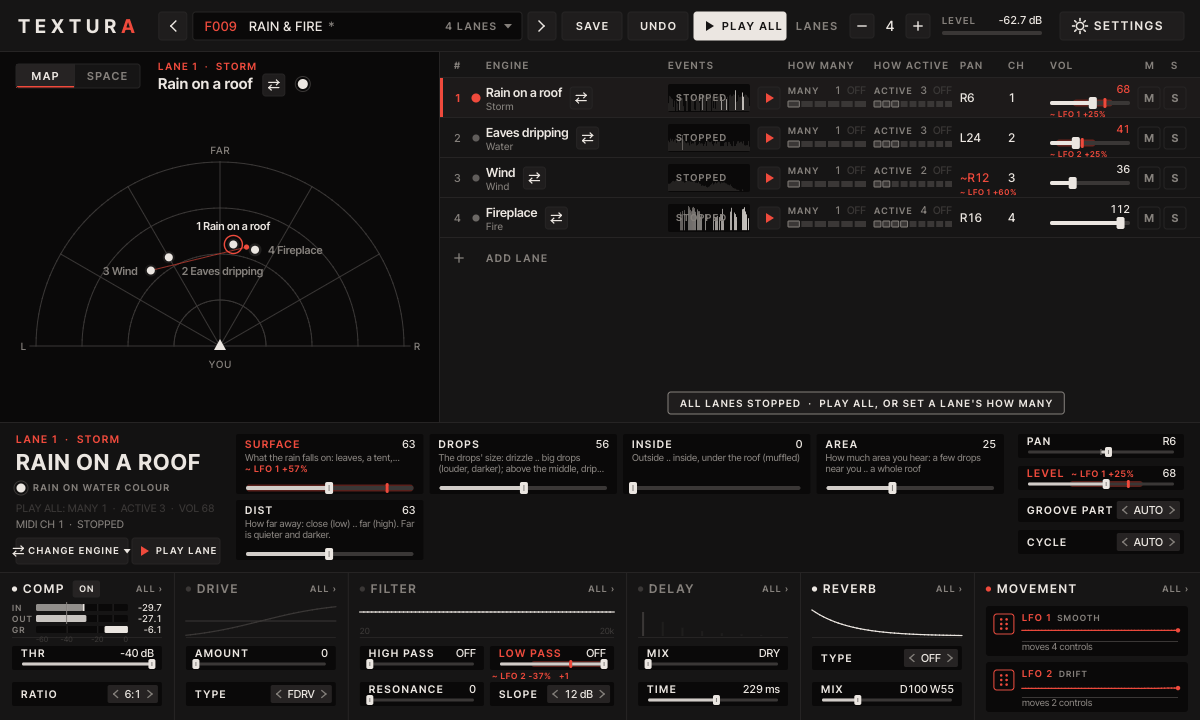
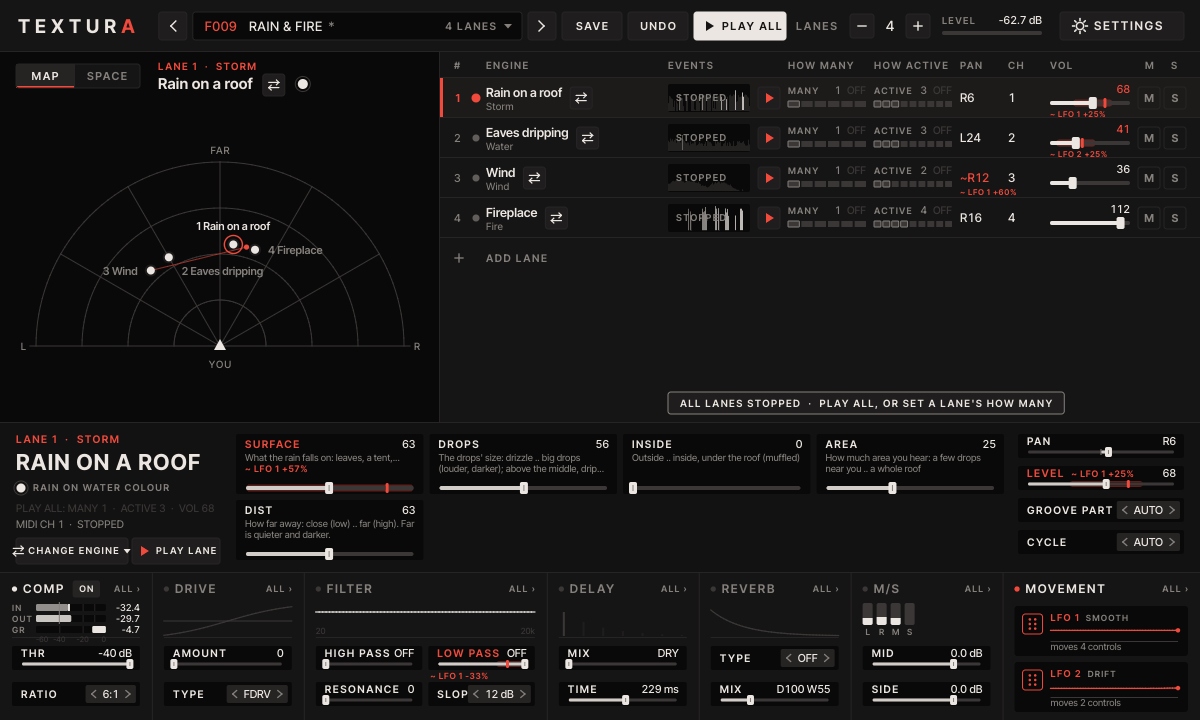
Plugin 0.3.0: release notes, manual pictures redone, the AU's Info.plist after every build
The manual's pictures show the current window (M/S in the strip); README's
window picture cache-bust bumped. A CMake re-configure could leave the
generic Info.plist in Textura.component, with no AudioComponents, so hosts
missed the Audio Unit: the wrapper's plist is now copied in after every build.

diff --git a/docs/releases/textura-plugin-v0.3.0.md b/docs/releases/textura-plugin-v0.3.0.md
@@ -1,0 +1,13 @@
+The desktop plugin gets a roomier window, its sources moved by LFOs, envelopes and followers straight in the window, and the M/S section.
+
+- Effect drawers: click an effect's header or ALL > and a drawer rises from the strip with a large live picture (compressor meters and curve, drive curve, filter response in Hz, delay taps, reverb tail) and every parameter in titled groups. Esc or CLOSE closes it. MOVEMENT opens the same drawer with the LFO 1-8, ENV and FOLLOW, and MATRIX tabs.
+- ENGINE and SOURCE: the window says ENGINE for what a lane plays and SOURCE for the physics model it runs on. Host parameters L1 .. L16 SOUND are now named ENGINE; their ids and ranges are unchanged, so saved projects and automation still load.
+- Each lane row has one small swap icon after its name to change the engine. A click anywhere else on the row selects the lane.
+- The engine browser plays the engine under the cursor on the lane, a stopped lane too. CLOSE puts everything back as it was; KEEP keeps the engine.
+- STOP / PLAY on every row, and STOP LANE / PLAY LANE in the lane panel. A lane stopped on its own comes back with its own HOW MANY and HOW ACTIVE, and PLAY ALL keeps it stopped.
+- LFO, ENV and FOLLOW source mode: click a source and a red bar opens its mode. Drag any control to set how far the source moves it, on the control's own fader; double-click removes the link; CLEAR removes the source's links; DONE or Esc leaves. Outside the mode a moved control shows its reach and a live tick. Dragging a source's grip onto a control, or a right-click, are shortcuts. The MATRIX tab stays.
+- UNDO and CLEAR ALL MOVEMENT.
+- M/S: a seventh section last in the effects strip, after the reverb, as on the FM-1. L R M S meters, a stereo scope and correlation, MID and SIDE (-INF to +6 dB), WIDTH (0 to 200 %) and MONO. At 0 dB, 100 % and MONO off it leaves the sound untouched. Host parameters were added at the end; existing ids are unchanged.
+- Fixes: a state saved during a preview keeps the lane as it was; a preview's HOW MANY and HOW ACTIVE no longer show as host automation; the reverb graph is dim when TYPE is OFF; compressor ATTACK and RELEASE read in ms; hints no longer touch their fader.
+- The manual (Textura-Plugin-Manual.pdf, 30 pages) and its pictures are redone for all of this, and every zip carries it.
+- Builds: macOS (universal: Apple silicon and Intel; CLAP, VST3, Audio Unit), Windows x64 and Linux (x86_64, aarch64): CLAP and VST3.

diff --git a/README.md b/README.md
@@ -16,7 +16,7 @@ Textura is free. If you enjoy it, you can [buy me a coffee](https://ko-fi.com/le
 <table align="center">
   <tr>
     <td align="center" width="50%"><img src="docs/img/landscape.png?v=7b19918e" width="100%" alt="Textura on the FM-1: the LANDSCAPE page, four lanes with their sounds and volumes"><br><b>On the M-VAVE FM-1</b>: colour screen, four knobs, four lanes</td>
-    <td align="center" width="50%"><img src="docs/plugin/img/window-4-lanes.png?v=d0bc8088" width="100%" alt="The desktop plugin's window: the place and the lanes, the effects strip"><br><b>On your computer</b>: a plugin with its own window, up to 16 lanes</td>
+    <td align="center" width="50%"><img src="docs/plugin/img/window-4-lanes.png?v=e3a857e5" width="100%" alt="The desktop plugin's window: the place and the lanes, the effects strip"><br><b>On your computer</b>: a plugin with its own window, up to 16 lanes</td>
   </tr>
 </table>
 
@@ -95,7 +95,7 @@ Audio Unit on macOS.
 
 <table align="center">
   <tr>
-    <td align="center"><img src="docs/plugin/img/window-4-lanes.png?v=d0bc8088" width="384" alt="The plugin's window: the place and the lanes, the selected lane's drawer, the effects strip"></td>
+    <td align="center"><img src="docs/plugin/img/window-4-lanes.png?v=e3a857e5" width="384" alt="The plugin's window: the place and the lanes, the selected lane's drawer, the effects strip"></td>
     <td align="center"><img src="docs/plugin/img/engine-browser.png?v=6128e9e0" width="384" alt="The plugin's engine browser"></td>
   </tr>
   <tr>
